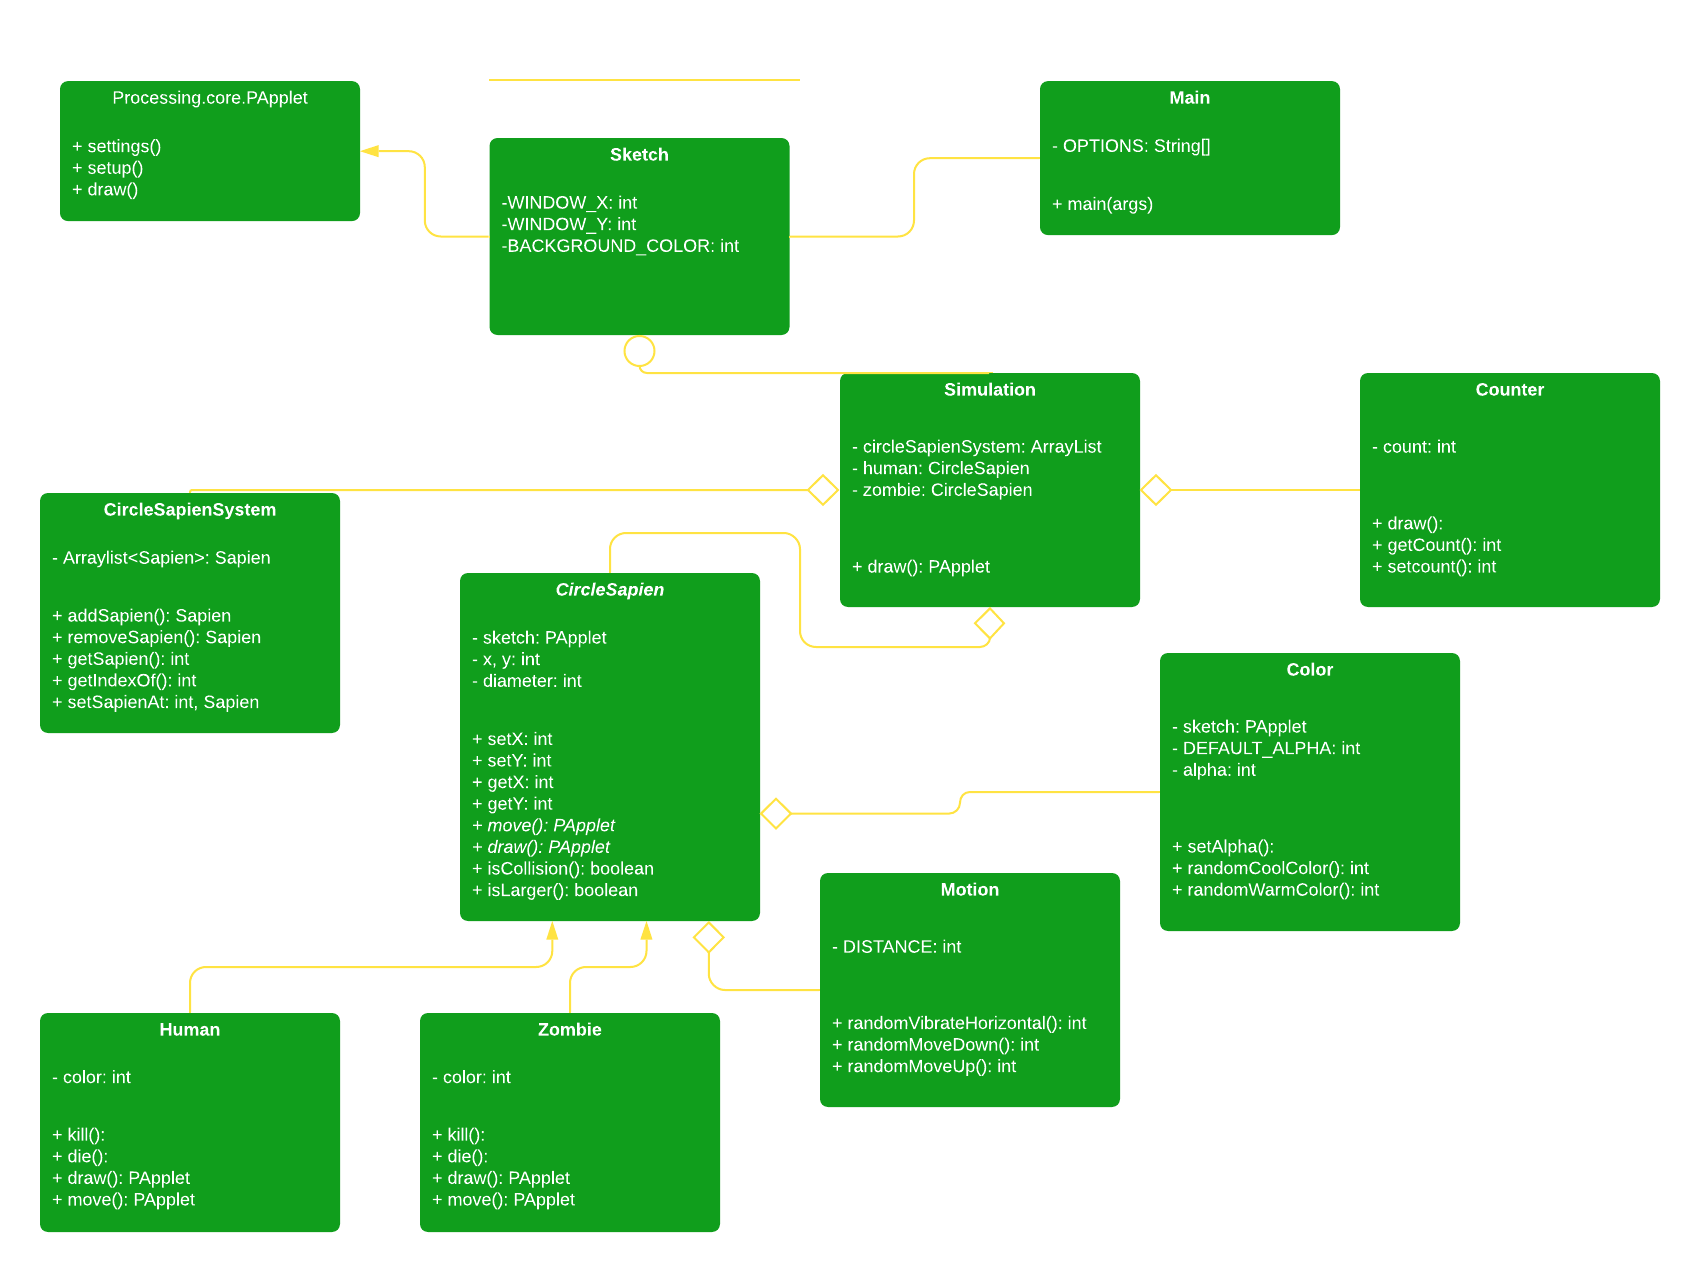
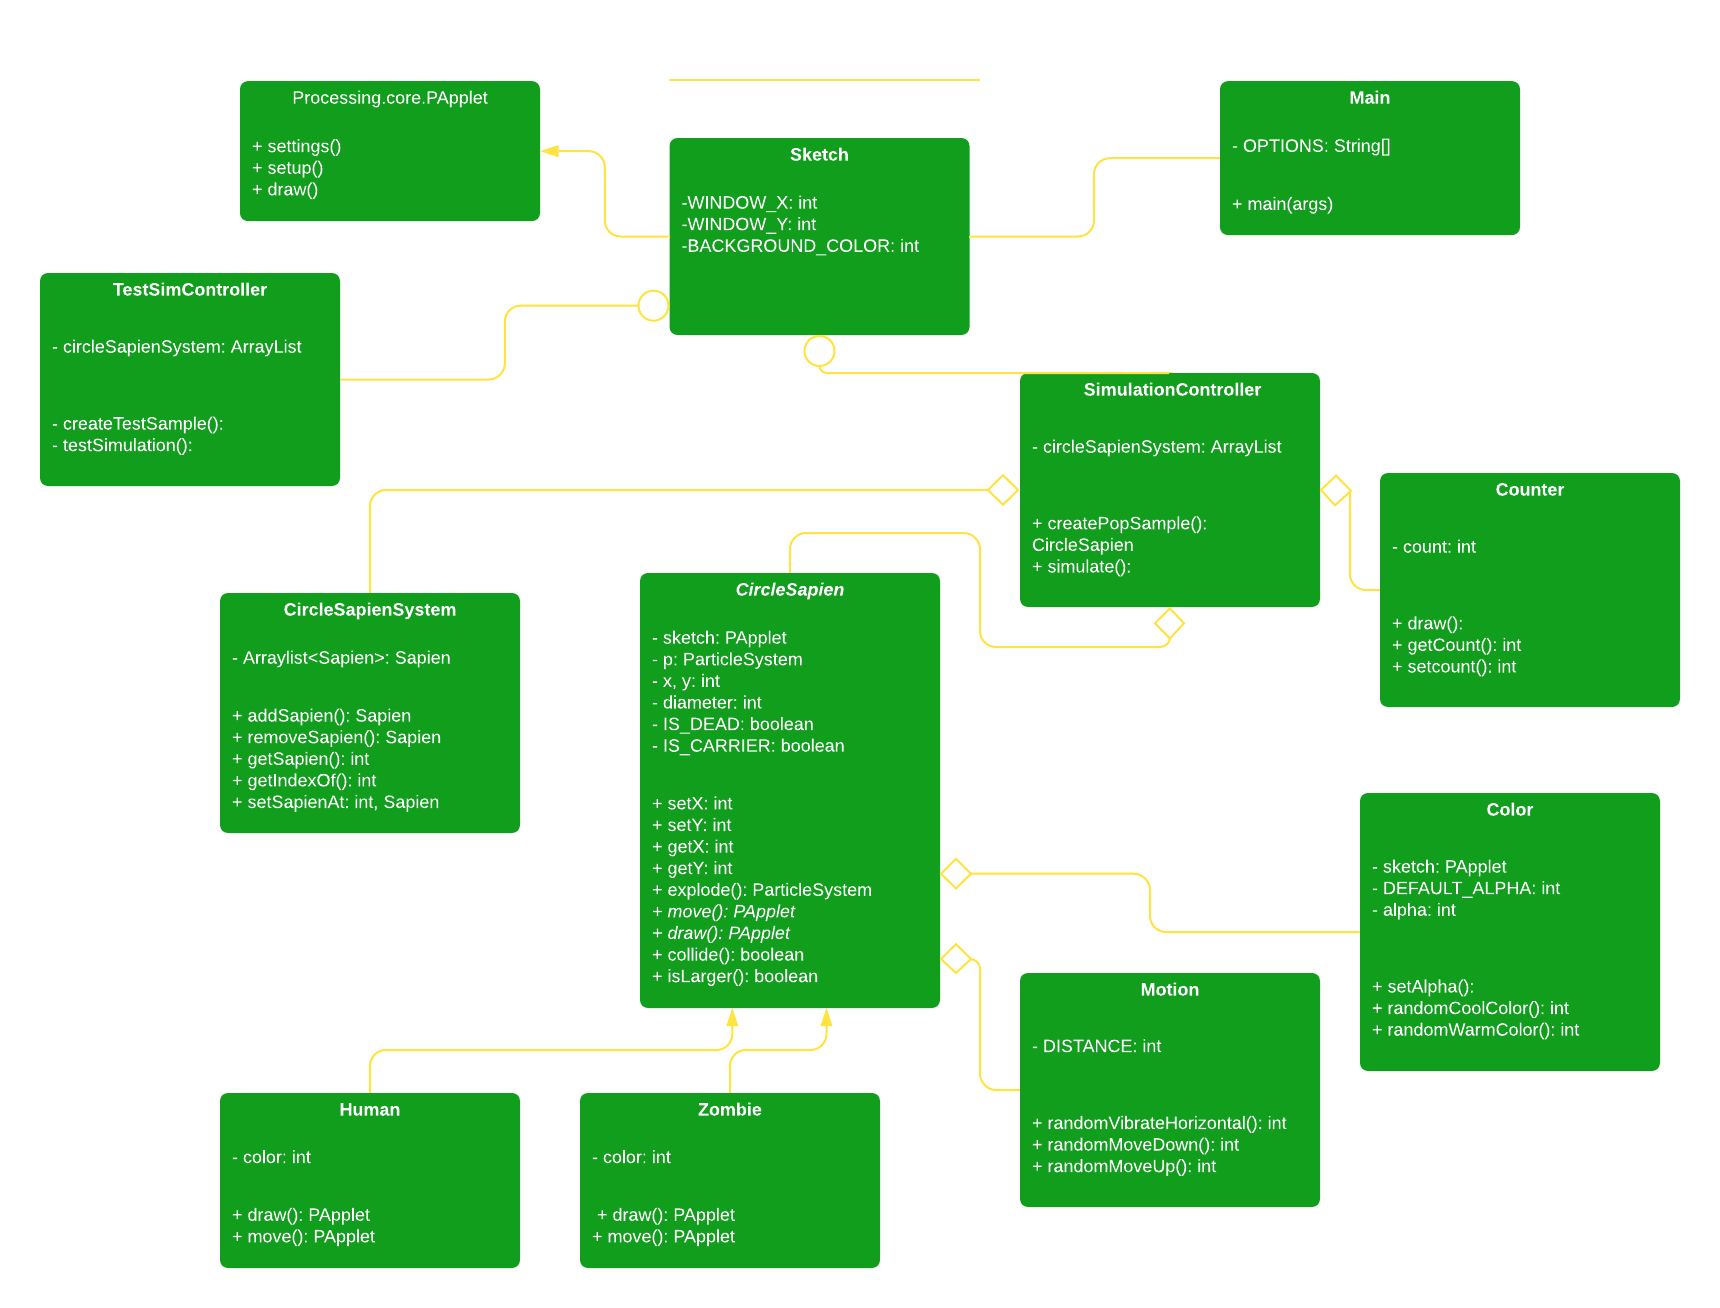
test mode for easy switching between testcontroller and production control

diff --git a/src/CircleSapienSystem.java b/src/CircleSapienSystem.java
@@ -127,32 +127,25 @@ public class CircleSapienSystem {
      * move each object in the system with constant motion
      */
     public void testMove() {
-        // ParticleSystem p = new ParticleSystem(sketch);
-        // p.draw();
-        // p.update();
         for (CircleSapien c : circleSapienSystem) {
             c.testMove();
         }
-        // for (int i = circleSapienSystem.size() - 1; i >= 0; i--) {
-        // circleSapienSystem.get(i).testMove();
-        // }
     }
 
     /**
-     * draw each object in the system
+     * draw each living object in the system
      */
     public void draw() {
         for (CircleSapien c : circleSapienSystem) {
             if (!c.isDead())
                 c.draw();
         }
-
-        // for (int i = circleSapienSystem.size() - 1; i >= 0; i--) {
-        // circleSapienSystem.get(i).draw();
-        // }
     }
 
-    public void killInfected() {
+    /**
+     * remove object's flagged as dead from the array
+     */
+    public void removeDead() {
         for (int i = circleSapienSystem.size() - 1; i >= 0; i--) {
             if (circleSapienSystem.get(i).isDead()) {
                 circleSapienSystem.remove(i);
@@ -160,19 +153,16 @@ public class CircleSapienSystem {
         }
     }
 
+    /**
+     * for every frame check contact among each object in the array, set object
+     * flags
+     */
     public void collide() {
         for (CircleSapien c : circleSapienSystem) {
             c.collide(circleSapienSystem);
             if (c.isDead())
                 c.explode();
         }
-
-        // for (int i = circleSapienSystem.size() - 1; i >= 0; i--) {
-        // circleSapienSystem.get(i).collide(circleSapienSystem);
-        // if (circleSapienSystem.get(i).isDead()) {
-        // circleSapienSystem.remove(i);
-        // }
-        // }
     }
 
 }

diff --git a/src/Sketch.java b/src/Sketch.java
@@ -7,6 +7,7 @@ public class Sketch extends PApplet {
     private int WINDOW_X = 600;
     private int WINDOW_Y = 600;
     private int BACKGROUND_COLOR = 100;
+    private boolean TEST_MODE;
     SimController simController;
     TestController testController;
 
@@ -24,15 +25,13 @@ public class Sketch extends PApplet {
     @Override
     public void setup() {
         background(BACKGROUND_COLOR);
-
-        // simulation
-        simController = new SimController(this);
-        // simController.createSample(100, 25); // pop size, percentage zombies
-
-        // testing
-        testController = new TestController(this);
-        testController.createTestSample();
-
+        if (TEST_MODE) {
+            testController = new TestController(this);
+            testController.createTestSample();
+        } else {
+            simController = new SimController(this);
+            simController.createSample(400, 50); // pop size, percentage zombies
+        }
     }
 
     /**
@@ -41,9 +40,28 @@ public class Sketch extends PApplet {
     @Override
     public void draw() {
         background(BACKGROUND_COLOR);
-        // simController.simulate();
+        if (TEST_MODE) {
+            testController.testSimulation();
+        } else {
+            simController.simulate();
+        }
+    }
 
-        // testing
-        testController.testSimulation();
+    /**
+     * control the mode
+     * 
+     * @return true for test mode active
+     */
+    public boolean getMode() {
+        return this.TEST_MODE;
+    }
+
+    /**
+     * control the mode
+     * 
+     * @param TEST_MODE
+     */
+    public void setMode(boolean TEST_MODE) {
+        this.TEST_MODE = TEST_MODE;
     }
 }

diff --git a/src/CircleSapien.java b/src/CircleSapien.java
@@ -136,7 +136,7 @@ public abstract class CircleSapien {
      * 
      * @return contact
      */
-    public boolean getContact() {
+    public boolean getCarrier() {
         return this.IS_CARRIER;
     }
 
@@ -145,12 +145,26 @@ public abstract class CircleSapien {
      * 
      * @param contact true or false
      */
-    public void setContact(boolean IS_CARRIER) {
+    public void setCarrier(boolean IS_CARRIER) {
         this.IS_CARRIER = IS_CARRIER;
     }
 
+    /**
+     * check object state
+     * 
+     * @return isDead true or false
+     */
     public boolean isDead() {
         return this.IS_DEAD;
+    }
+
+    /**
+     * set object state true or false
+     * 
+     * @param IS_DEAD
+     */
+    public void setDead(boolean IS_DEAD) {
+        this.IS_DEAD = IS_DEAD;
     }
 
     /**
@@ -180,17 +194,6 @@ public abstract class CircleSapien {
                 createExplosion(x, y, sketch);
             }
         }
-
-        // for (int i = circleSapienSystem.size() - 1; i >= 0; i--) {
-        // CircleSapien c = circleSapienSystem.get(i);
-        // if (getDistance(c) < 0 && c.getClass() != this.getClass() && c != this &&
-        // !MADE_CONTACT) {
-        // setContact(true);
-        // // createExplosion(x, y, sketch);
-        // return c;
-        // }
-        // }
-        // return null;
     }
 
     /**

diff --git a/src/SimController.java b/src/SimController.java
@@ -33,6 +33,7 @@ public class SimController {
      * move each member of the system to their next position
      */
     public void simulate() {
+        circleSapienSystem.collide();
         circleSapienSystem.move();
         circleSapienSystem.draw();
     }

diff --git a/src/TestController.java b/src/TestController.java
@@ -25,6 +25,7 @@ public class TestController {
         circleSapienSystem.collide();
         circleSapienSystem.testMove();
         circleSapienSystem.draw();
+
     }
 
 }
